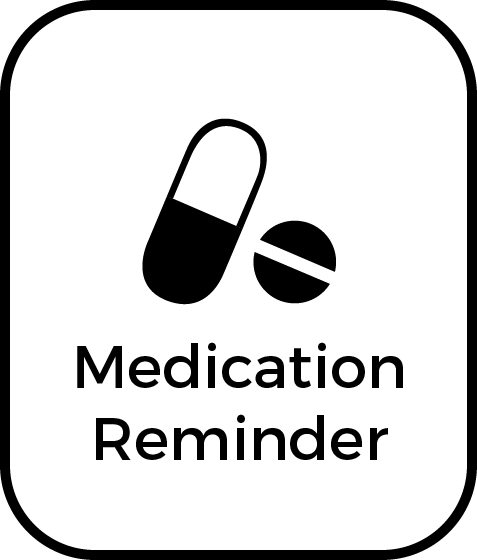
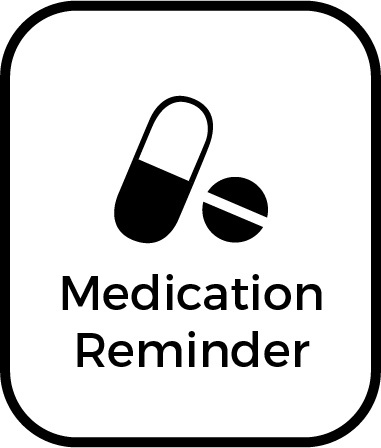
ui changes

diff --git a/MHB_Mobile/client/api/Login.html b/MHB_Mobile/client/api/Login.html
@@ -31,13 +31,13 @@
     <tr>
       <td style="padding-right:2px; padding-bottom: 2px;">
         <a href="/myprogress">
-          <img src="img/My-Progress.png" alt="My Profile">
+          <img src="img/My-Progress.png" alt="My Profile" style="height:50%; width:auto;">
         </a>
       </td>
 
       <td style="padding-left: 2px; padding-bottom: 2px;">
         <a href="/mysurveypage">
-          <img src="img/My-Survey.png" alt="My survey">
+          <img src="img/My-Survey.png" alt="My survey" style="height:50%; width:auto;">
         </a>
       </td>
     </tr>
@@ -45,13 +45,13 @@
     <tr>
       <td style="padding-right:2px; padding-top: 2px;">
         <a href="/setupPushReminder">
-          <img src="img/Medication-Reminder.png" alt="My Meds" >
+          <img src="img/Medication-Reminder.png" alt="My Meds" style="height:50%; width:auto;">
         </a>
       </td>
 
       <td style="padding-left:2px; padding-top: 2px;">
         <a href="/mylearningpage">
-          <img src="img/Learning.png" alt="My learning">
+          <img src="img/Learning.png" alt="My learning" style="height:50%; width:auto;">
         </a>
       </td>
     </tr>

diff --git a/MHB_Mobile/client/api/addReminder.html b/MHB_Mobile/client/api/addReminder.html
@@ -26,7 +26,7 @@
 				<input type="checkbox" name="reminderDays" value="Sunday"> Sun
 				<input type="checkbox" name="reminderDays" value="Monday"> Mon
 				<input type="checkbox" name="reminderDays" value="Tuesday"> Tue
-				<input type="checkbox" name="reminderDays" value="Wednesday"> Wed
+				<input type="checkbox" name="reminderDays" value="Wednesday"> Wed <br>
 				<input type="checkbox" name="reminderDays" value="Thursday"> Thu
 				<input type="checkbox" name="reminderDays" value="Friday"> Fri
 				<input type="checkbox" name="reminderDays" value="Saturday"> Sat

diff --git a/MHB_Mobile/client/ui/INRHistory.js b/MHB_Mobile/client/ui/INRHistory.js
@@ -45,12 +45,12 @@ Template.charts.helpers({
                   tick: {
 
                       rotate: 90,
-                      format: function(x) { return moment(x).format('YYYY-MM-DD')}
+                      format: function(x) { return moment(x).format('MM-DD-YYYY')}
                   }
               },
 
                       y: {
-                        max:10,
+                        max:6,
                         min:0,
                         padding: {top:1, bottom:1},
                         label: {

diff --git a/MHB_Mobile/client/ui/MealHistory.js b/MHB_Mobile/client/ui/MealHistory.js
@@ -8,7 +8,7 @@ Template.charts2.helpers({
          //theReport = allINR.find().fetch();
 
         xData = ['x'];
-        yData = ['Meal History'];
+        yData = ['Green Meal History'];
 
         res_x = _.pluck(theReport, 'timestamp');
         console.log("res_x",res_x);
@@ -48,7 +48,7 @@ Template.charts2.helpers({
 
             y: {
 
-              max:5,
+              max:7,
               min:0,
               padding: {top:1, bottom:1},
               label: {

diff --git a/MHB_Mobile/client/ui/Video.html b/MHB_Mobile/client/ui/Video.html
@@ -1,12 +1,15 @@
 <!-- video.html -->
 
 <template name="video">
- 
+ {{> header title="? Help: Video"}}
+
+ <div class="container">
  	<video width="320" height="240" controls align="center">    <!-- controls can be added here -->
   	<source src="movie.mp4" type="video/mp4">
   	<source src="movie.ogg" type="video/ogg">
   	Your browser does not support the video tag.
 	</video>
+</div>
 
 	<br><br><br><br>
     <div id="footer">

diff --git a/MHB_Mobile/client/ui/MedHistory.html b/MHB_Mobile/client/ui/MedHistory.html
@@ -14,7 +14,7 @@
 		<!-- </table> -->
 		<p id="calculatePercentage" style="color:green; font-size: 20px;"> </p>
 
-		<br><br> <br><br>
+		<br><br>
 		<ul id="tookOrNot">
 			<li style="color:green; font-size: 15px;"> Green Color: Medication Taken </li> <br>
 			<li style="color:red; font-size:15px;">Red Color: Medication NOT Taken </li>

diff --git a/MHB_Mobile/client/ui/INRHistory.html b/MHB_Mobile/client/ui/INRHistory.html
@@ -13,7 +13,9 @@
 
 
 <template name = "charts">
+<div class="container">
 	{{#if Template.subscriptionsReady}}
 		{{> c3 myChartData}}
 	{{/if}}
+	</div>
 </template>

diff --git a/MHB_Mobile/client/ui/MealHistory.html b/MHB_Mobile/client/ui/MealHistory.html
@@ -14,5 +14,7 @@
 
 
 <template name = "charts2">
+<div class="container">
 	{{> c3 myChart2Data}}
+	</div>
 </template>
